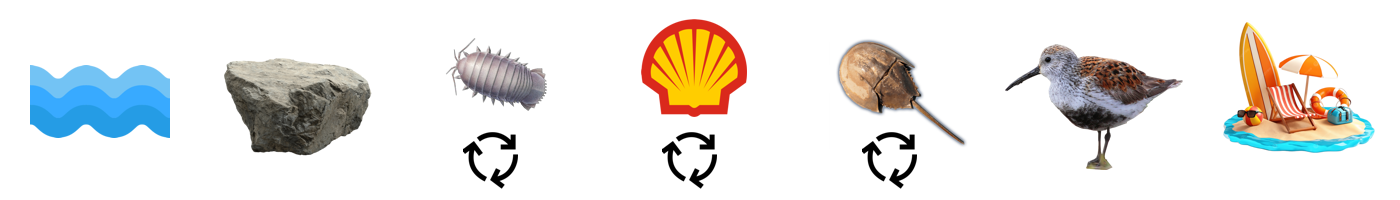
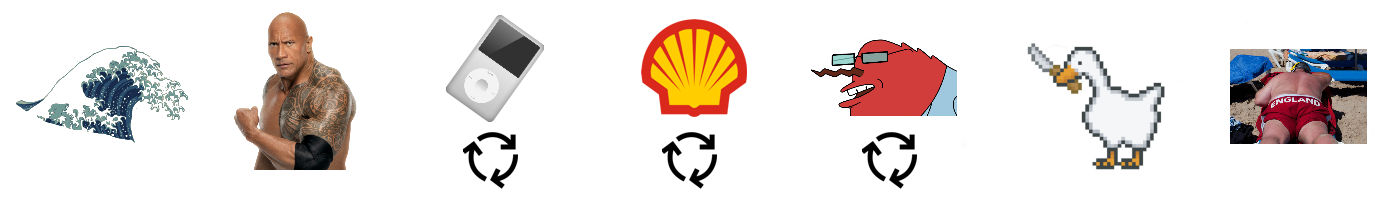
new token images, debuging rare crab issue

Changed region(s): [[0.5836, 0.12, 0.9829, 0.87], [0.0, 0.06, 0.2764, 0.87], [0.3071, 0.09, 0.3993, 0.6]]

diff --git a/src/utils.ts b/src/utils.ts
@@ -1,11 +1,12 @@
-export const drawToken = (token: SeasideToken) => {
-  document
+export const drawToken = (token: SeasideToken, gameGui: GameGui) => {
+  const tokenEl = document
     .getElementById("seaside-draw-bag")
     .insertAdjacentElement("beforeend", tokenToNode(token));
+  addTokenTooltip(tokenEl, gameGui);
 };
 
 export const getTokenElById = (tokenId: number): Element => {
-  return document.querySelector(`.seaside-tile[data-id="${tokenId}"]`);
+  return document.getElementById(`seaside-token-${tokenId}`);
 };
 
 export const flipToken = (tokenEl: Element) => {
@@ -67,8 +68,8 @@ export const getRandomPosition = () => {
 
 export const tokenToNode = (token: SeasideToken): Element => {
   const tokenEl = document.createElement("div");
-  tokenEl.className = "seaside-tile";
-  tokenEl.setAttribute("data-id", token.id.toString());
+  tokenEl.id = `seaside-token-${token.id}`;
+  tokenEl.className = "seaside-token";
   tokenEl.setAttribute("data-active-type", token.activeType);
   tokenEl.setAttribute("data-inactive-type", token.inactiveType);
   tokenEl.setAttribute("data-location", token.location);
@@ -138,7 +139,7 @@ export const selectSingleToken = (tokenId: number) => {
     if (token !== newEl) {
       token.classList.remove("selected-move");
       const newOtherToken = removeAllClickEvents(token);
-      const otherTokenId = newOtherToken.getAttribute("data-id")
+      const otherTokenId = newOtherToken.id;
       newOtherToken.addEventListener("click", () => selectSingleToken(parseInt(otherTokenId)));
     }
   });
@@ -172,3 +173,9 @@ export const updateTokenElLocation = (element: Element, location: string, locati
   element.setAttribute("data-location", location);
   element.setAttribute("data-location-arg", locationArg.toString());
 }
+
+export const addTokenTooltip = (tokenEl: Element, gameGui: GameGui) => {
+  const activeType = tokenEl.getAttribute("data-active-type");
+  const inactiveType = tokenEl.getAttribute("data-inactive-type");
+  gameGui.addTooltip(tokenEl.id, "Sides - " + activeType + " / " + inactiveType, "");
+};

diff --git a/src/actions.ts b/src/actions.ts
@@ -158,7 +158,7 @@ export class SeasideActions extends GameGui<SeasideGamedatas> {
   }
 
   enteringPlayTokenState(args: SeasidePlayTokenArgs) {
-    drawToken(args.token);
+    drawToken(args.token, this);
   }
 
   leaveStatePlayToken() {}
@@ -224,7 +224,7 @@ export class SeasideActions extends GameGui<SeasideGamedatas> {
         () => {
           const beachId = document
             .querySelector(".selected-move")
-            .getAttribute("data-id");
+            .id;
           this.actFlipBeach(parseInt(beachId));
         },
         {
@@ -306,7 +306,7 @@ export class SeasideActions extends GameGui<SeasideGamedatas> {
         () => {
           const isopodIds = Array.from(
             document.querySelectorAll(".selected-move")
-          ).map((el) => parseInt(el.getAttribute("data-id")));
+          ).map((el) => parseInt(el.id));
           const newPileSize = isopodIds.length + 1;
           if(args.currentPileSizes.length > 0) {
             const largerPiles = args.currentPileSizes.filter((size) => size > newPileSize);

diff --git a/src/setup.ts b/src/setup.ts
@@ -1,4 +1,4 @@
-import { createTokenInSea, tokenToNode } from "./utils";
+import { addTokenTooltip, createTokenInSea, tokenToNode } from "./utils";
 
 export class SeasideSetup extends GameGui<SeasideGamedatas> {
   setup(gamedatas: SeasideGamedatas) {
@@ -8,6 +8,7 @@ export class SeasideSetup extends GameGui<SeasideGamedatas> {
     this.setupBaseGameArea(gamedatas);
     this.setupPlayerAreas(gamedatas);
     this.setupSea(gamedatas);
+    this.setupTooltips();
 
     //Setup game notifications to handle (see "setupNotifications" method below)
     this.setupNotifications();
@@ -50,6 +51,14 @@ export class SeasideSetup extends GameGui<SeasideGamedatas> {
             </div>`
         );
       }
+    });
+  }
+
+  setupTooltips() {
+    console.log("tooltips setup");
+    const tokens = document.querySelectorAll(".seaside-token");
+    tokens.forEach((token) => {
+      addTokenTooltip(token, this);
     });
   }
 

diff --git a/src/seaside.scss b/src/seaside.scss
@@ -11,7 +11,7 @@
     height: 20vh;
     background-size: contain;
 
-    .seaside-tile {
+    .seaside-token {
       top: 28%;
       left: 28%;
     }
@@ -31,7 +31,7 @@
     display: flex;
     padding-left: 50px;
 
-    .seaside-tile {
+    .seaside-token {
       flex: 0 0 auto;
       margin-left: -50px;
       position: relative;
@@ -57,7 +57,7 @@
         }
       }
 
-      .seaside-tile {
+      .seaside-token {
         height: 25px;
         width: 25px;
         margin-left: -20px;
@@ -78,7 +78,7 @@
     height: 20vh;
   }
 
-  .seaside-tile {
+  .seaside-token {
     background-image: url("img/chips.png");
     height: 75px;
     width: 75px;

diff --git a/modules/php/notifications.php b/modules/php/notifications.php
@@ -103,7 +103,7 @@ trait NotificationsTrait
         $playerNames = array_map(fn($id) => $allPlayerNames[$id] ?? '', $playerIds);
         $this->notify->all("endGameWaveBonusTie", clienttranslate('${playerNames} have tied for the most waves, so they each get ${tokenCount} leftover sea tokens'), [
             "playerIdsAndTokenIds" => $playerIdsAndTokenIds,
-            "playerNames" => implode(',', array_keys($playerNames)),
+            "playerNames" => implode(',', $playerNames),
             "tokenCount" => count($playerIdsAndTokenIds[array_key_first($playerIdsAndTokenIds)]),
         ]);
     }

diff --git a/modules/php/logic.php b/modules/php/logic.php
@@ -122,7 +122,13 @@ trait LogicTrait
             }
 
             //Find rock to create pair
+            //BUG HERE
             $unPiledRockToken = $this->getAllTokensOfTypeForLocation((string)$playerId, ROCK, 0)[0];
+
+            if(!$unPiledRockToken) {
+                $this->debugLog($this->getAllTokensOfTypeForLocation((string)$playerId, ROCK, 0));
+                $this->debugLog($this->getAllTokensOfTypeForLocation((string)$playerId, ROCK));
+            }
 
             //Send main rock to player area
             $this->sendTokenToPlayerArea($rock, $playerId, $newRockPileId);

diff --git a/modules/php/debug-utils.php b/modules/php/debug-utils.php
@@ -33,6 +33,7 @@ trait DebugUtilsTrait
                     $args = $this->argStealCrab();
                     $playersWithCrabsIds = $args['playersWithCrabsIds'];
                     $rand = rand(0, count($playersWithCrabsIds) - 1);
+                    //ERROR: Causes 0 or -1 array key undefined
                     $this->actStealCrab((int)$playersWithCrabsIds[$rand]);
                     break;
                 case GAME_STATE_PLAYER_WAVE_FLIP_BEACH:

diff --git a/modules/php/args.php b/modules/php/args.php
@@ -23,7 +23,7 @@ trait ArgsTrait {
     {
         $playersWithCrabIds = [];
         foreach ($this->getPlayersIds() as $playerId) {
-            if ($this->getCurrentPlayerId() != $playerId) {
+            if (!$this->gamestate->isPlayerActive($playerId)) {
                 $crabs = $this->getAllTokensOfTypeForLocation((string)$playerId, CRAB);
                 if (count($crabs) > 0) {
                     $playersWithCrabIds[] = (int)$playerId;

diff --git a/modules/php/setup.php b/modules/php/setup.php
@@ -59,8 +59,8 @@ trait SetupTrait
 
     function setupTokens()
     {
-        $TokenDeck = DECK;
-        //$TokenDeck = TEST_DECK_ROCKS;
+        //$TokenDeck = DECK;
+        $TokenDeck = TEST_DECK_ROCKS;
         //$TokenDeck = TEST_DECK_PIPERS;
         //$TokenDeck = TEST_DECK_BEACHES;
         //$TokenDeck = TEST_DECK_WAVES;
